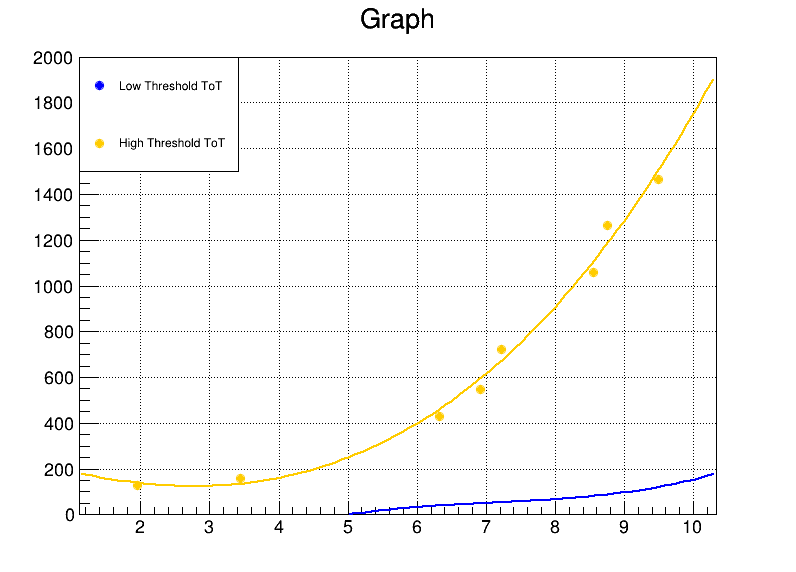
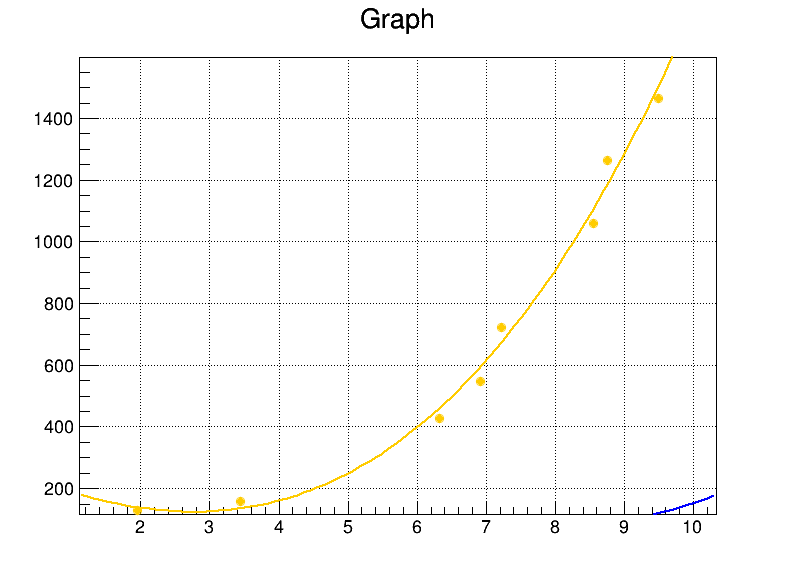
new commit

diff --git a/time_distribution_graph.C b/time_distribution_graph.C
@@ -222,7 +222,7 @@ int main() {
         "T_smear_41806_4000.txt", "T_smear_44519_2000.txt",
         "T_smear_5275_2800.txt",
         "T_smear_67_150.txt", "T_smear_86_22.txt",
-        "T_smear_4000.txt","T_smear_723.txt","T_smear_528.txt","T_smear_26539.txt",  "T_smear_135", "T_smear_150.txt" ,"T_smear_800.txt","T_smear_10.txt","T_smear_1000.txt"};
+        "T_smear_4000.txt","T_smear_723.txt","T_smear_528.txt","T_smear_26539.txt",  "T_smear_135", "T_smear_150.txt" ,"T_smear_800.txt","T_smear_10.txt", "T_smear_500.txt","T_smear_1000.txt","T_smear_1200.txt" };
 
     std::vector<double> N;
     std::vector<double> tot_l;
@@ -260,24 +260,24 @@ int main() {
     gr_low->SetMarkerStyle(20); // Imposta lo stile dei punti
     gr_low->SetMarkerColor(kBlue);
     gr_low->GetYaxis()->SetRangeUser(0,2000); // Aumenta l'intervallo dell'asse y
-    gr_low->GetXaxis()->SetRangeUser(0, 30);
+    gr_low->GetXaxis()->SetLimits(0.0,20.0);
     gr_low->Draw("AP");
 
     // Disegna il secondo grafico sullo stesso canvas
     gr_high->SetMarkerStyle(20); // Imposta lo stile dei punti
     gr_high->SetMarkerColor(kOrange);
-    gr_high->GetXaxis()->SetRangeUser(0, 30);
+    gr_high->GetXaxis()->SetLimits(0.0,20.0);
     gr_high->Draw("AP same");
 
     // Aggiungi legenda
     TLegend *legend = new TLegend(0.1, 0.7, 0.3, 0.9);
     legend->AddEntry(gr_low, "Low Threshold ToT", "p");
     legend->AddEntry(gr_high, "High Threshold ToT", "p");
-    legend->Draw();
+    //legend->Draw();
 
     // Esegui il fitting dei dati
-    TF1 *fit_low = new TF1("fit_low", "pol3", 0, 30); // Fitting con un polinomio di secondo grado
-    TF1 *fit_high = new TF1("fit_high", "pol3", 0, 30);
+    TF1 *fit_low = new TF1("fit_low", "pol3", 0, 20); // Fitting con un polinomio di secondo grado
+    TF1 *fit_high = new TF1("fit_high", "pol3", 0, 20);
 
     //gr_low->Fit(fit_low);
     gr_high->Fit(fit_high);
@@ -286,12 +286,12 @@ int main() {
     // Aggiungi le funzioni di fit al grafico
     fit_low->SetLineColor(kBlue);
     fit_low->SetLineWidth(2);
-    fit_low->GetXaxis()->SetRangeUser(0, 30);
+    fit_low->GetXaxis()->SetRangeUser(0, 20);
     fit_low->Draw("same");
 
     fit_high->SetLineColor(kOrange);
     fit_high->SetLineWidth(2);
-    fit_high->GetXaxis()->SetRangeUser(0, 30);
+    fit_high->GetXaxis()->SetRangeUser(0, 20);
     fit_high->Draw("same");
 
     // Salva il grafico in un file
